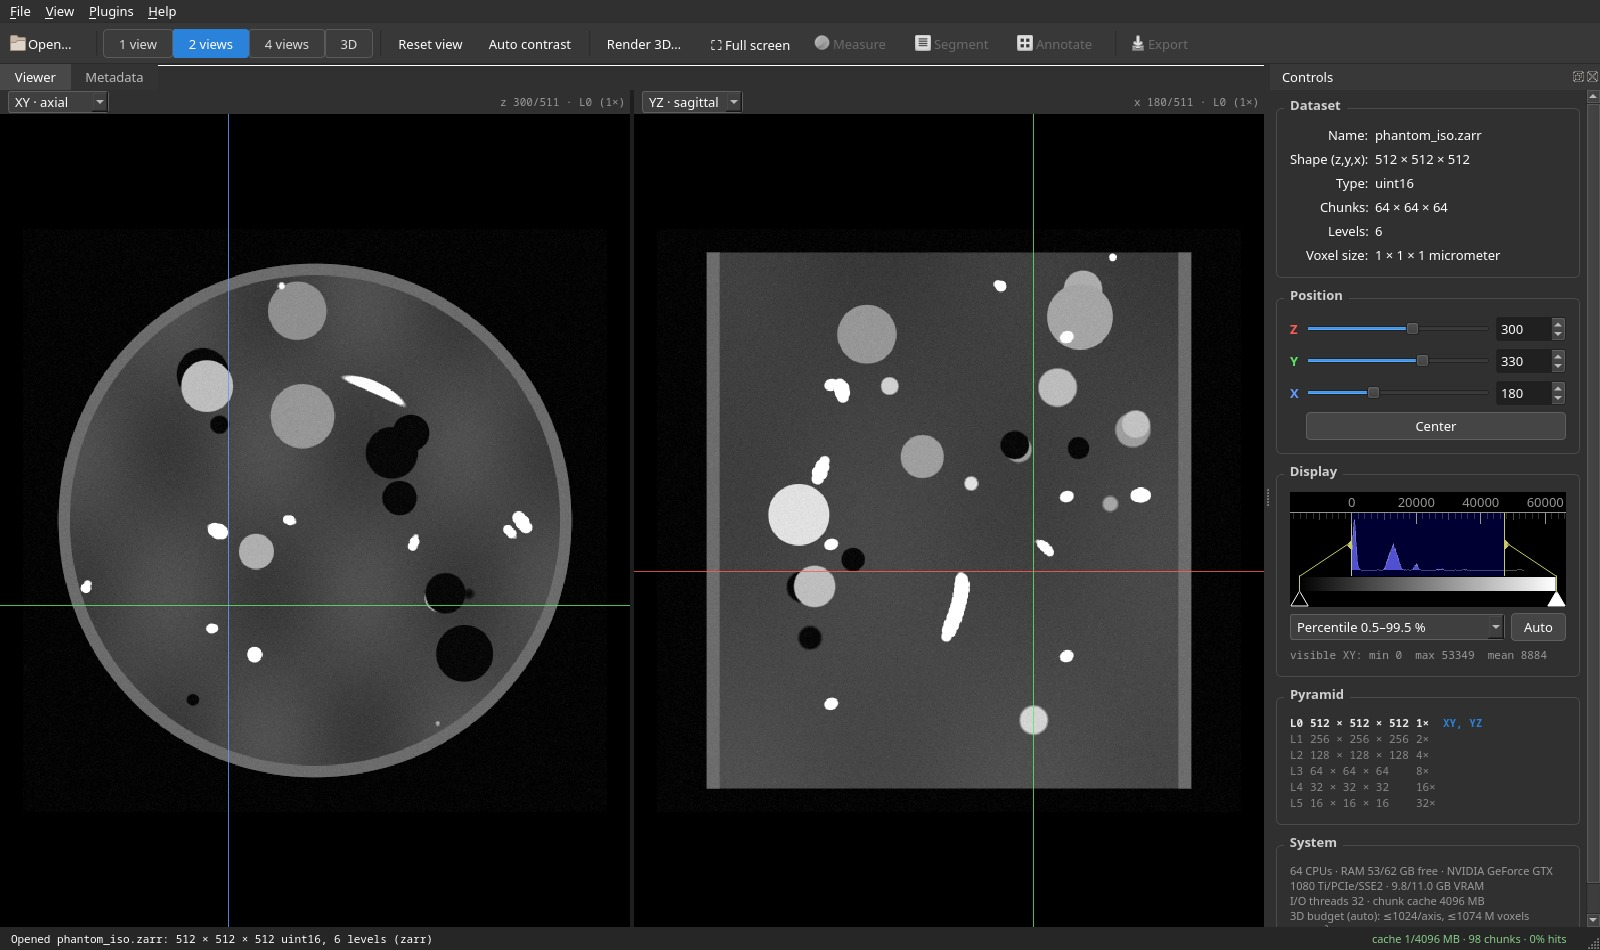
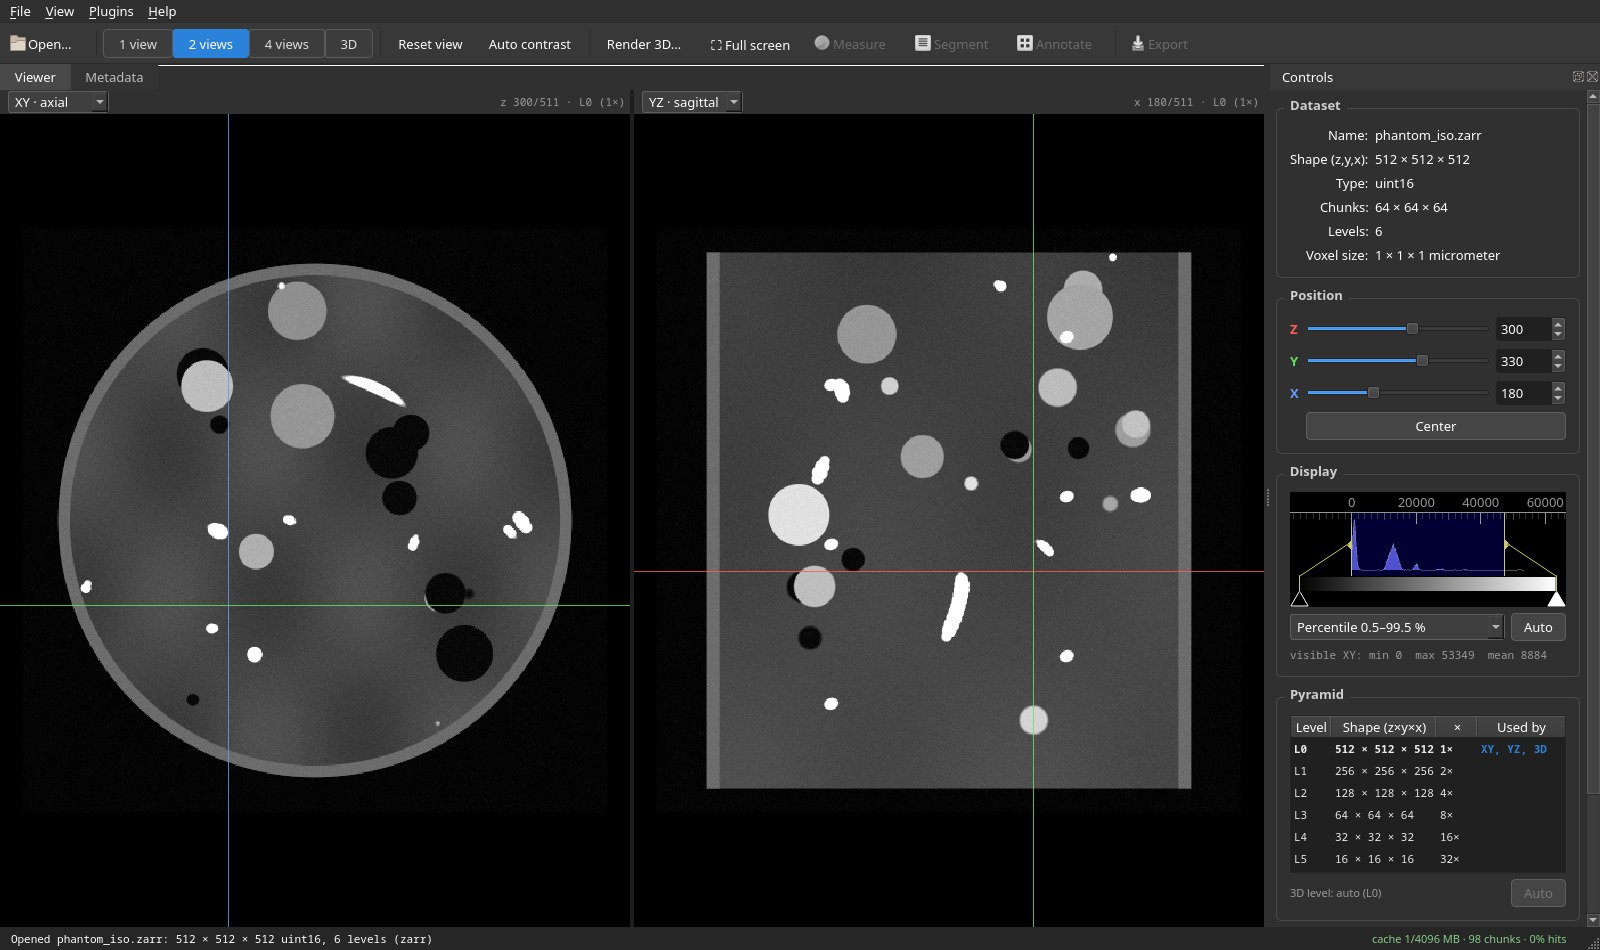
Docs: HDF5, level picker and shadows; citation; fresh screenshots
- Viewer, quick start, performance, test-data and API pages cover HDF5
  files (strided virtual levels, direct reads, read cap), the Pyramid
  level picker and the Shadows toggle.
- Citing page and CITATION.cff (cite the software repository).
- Fake-data suite writes phantom_scan.h5 (contiguous, DXchange layout).
- Screenshots regenerated, plus an HDF5 one.
- UI: checked toolbar buttons (Shadows, gear) are visibly highlighted;
  the Pyramid table no longer wraps level shapes.

Changed region(s): [[0.8125, 0.7326, 0.9688, 0.9768]]

diff --git a/scripts/make_fake_datasets.py b/scripts/make_fake_datasets.py
@@ -35,6 +35,12 @@ Datasets written to OUT_DIR (default /tmp/zview_fake):
                               multiscales metadata (fallback discovery).
   numbered_no_metadata.zarr   Zarr v2 group with arrays 0..3, no attributes.
   image_2d.zarr               2D uint8 4096², 5 levels.
+  phantom_scan.h5             HDF5 (DXchange layout), the phantom_iso volume
+                              as ONE contiguous uint16 dataset /exchange/data
+                              (voxel_size attribute), plus small data_white /
+                              data_dark. Tests the single-resolution HDF5 path:
+                              strided virtual levels, direct reads, the
+                              dataset chooser.
   big_single_level.zarr       Zarr v3 uint8, default 768×2048×2048 (3.2 GB raw),
                               ONE level (no pyramid). Stress test for the
                               strided 3D path, progress and cancel.
@@ -481,6 +487,27 @@ def write_n5(path, phantom, shape, voxel, levels):
 
 # ============================================================== main
 
+def write_h5(path, src_zarr):
+    """Copy level 0 of `src_zarr` into a DXchange-style HDF5 file (contiguous)."""
+    try:
+        import h5py
+    except ImportError:
+        print(f"  skip {path.name}: h5py not installed")
+        return
+    t = time.perf_counter()
+    src = zarr.open_array(str(src_zarr / "0"), mode="r")
+    with h5py.File(path, "w") as f:
+        d = f.create_dataset("exchange/data", shape=src.shape, dtype=src.dtype)   # contiguous
+        for z in range(0, src.shape[0], 64):
+            d[z:z + 64] = src[z:z + 64]
+        d.attrs["voxel_size"] = [1.0, 1.0, 1.0]
+        flat = np.full((4,) + src.shape[1:], 30000, src.dtype)
+        f.create_dataset("exchange/data_white", data=flat)
+        f.create_dataset("exchange/data_dark", data=np.full((2,) + src.shape[1:], 100, src.dtype))
+    print(f"  {path.name}: {src.shape} {src.dtype}, contiguous, + data_white/data_dark "
+          f"({time.perf_counter() - t:.1f}s)")
+
+
 def main():
     ap = argparse.ArgumentParser(description=__doc__, formatter_class=argparse.RawDescriptionHelpFormatter)
     ap.add_argument("out", nargs="?", default="/tmp/zview_fake")
@@ -558,7 +585,10 @@ def main():
                           voxel=(1.0, 1.0, 1.0), levels=5 if args.big_pyramid else 1,
                           group_blocks=(1, 1, 2))
 
-    # 8. N5 (z5py writes in-process; small).
+    # 8. HDF5: phantom_iso's full-resolution level as one contiguous dataset.
+    write_h5(out / "phantom_scan.h5", out / "phantom_iso.zarr")
+
+    # 9. N5 (z5py writes in-process; small).
     write_n5(out / "phantom.n5", Phantom((192, 192, 192), seed=7), (192, 192, 192), (1.0, 1.0, 1.0), 3)
 
     du = sum(f.stat().st_size for f in out.rglob("*") if f.is_file())

diff --git a/docs/gen_screenshots.py b/docs/gen_screenshots.py
@@ -87,12 +87,15 @@ def main():
         pump(2)
         w = v.view_3d_only
         if hasattr(w, "preset_combo"):                # VTK pane
+            w.shadows_btn.setChecked(True)            # the showcase shot uses shadows
             w._on_preset(w.preset_combo.findData("interior"))
         else:                                         # VisPy pane
             w.mode_combo.setCurrentIndex(w.mode_combo.findData("translucent"))
             w.cmap_combo.setCurrentIndex(w.cmap_combo.findText("viridis"))
         pump(5)
         shot(v, "view3d")
+        if hasattr(w, "shadows_btn"):
+            w.shadows_btn.setChecked(False)
 
         v.set_layout("quad")
         v.open_path(str(a.data / "phantom_aniso_5d.zarr"))
@@ -114,6 +117,20 @@ def main():
                     w3._set_class(val, visible=False)
             pump(5)
         shot(v, "view3d_labels")
+
+        # HDF5: one stored level, strided virtual levels; render L1 in 3D
+        # (a click in the Pyramid table) so the chosen-level marker shows.
+        h5 = a.data / "phantom_scan.h5"
+        if h5.exists():
+            v.set_layout("quad")
+            v.open_path(f"{h5}:/exchange/data")
+            wait_3d()
+            v.set_position(300, 330, 180)
+            v._on_pyramid_clicked(1, 0)
+            pump(0.5)
+            wait_3d()
+            pump(4)
+            shot(v, "quad_h5")
 
         v.set_layout("quad")
         v.open_path(str(a.data / "phantom_iso.zarr"))

diff --git a/zview/viewer/app.py b/zview/viewer/app.py
@@ -454,9 +454,12 @@ class MainWindow(QtWidgets.QMainWindow):
         t.setVerticalScrollBarPolicy(QtCore.Qt.ScrollBarAlwaysOff)
         t.setHorizontalScrollBarPolicy(QtCore.Qt.ScrollBarAlwaysOff)
         t.setStyleSheet("QTableWidget { font-family: monospace; font-size: 11px; }")
+        t.setWordWrap(False)              # never wrap a shape onto two lines
+        t.setTextElideMode(QtCore.Qt.ElideRight)
         hh = t.horizontalHeader()
-        for col, mode in enumerate((QtWidgets.QHeaderView.ResizeToContents, QtWidgets.QHeaderView.Stretch,
-                                    QtWidgets.QHeaderView.ResizeToContents, QtWidgets.QHeaderView.ResizeToContents)):
+        # Shapes keep their width; "Used by" takes what's left (elided if needed).
+        for col, mode in enumerate((QtWidgets.QHeaderView.ResizeToContents, QtWidgets.QHeaderView.ResizeToContents,
+                                    QtWidgets.QHeaderView.ResizeToContents, QtWidgets.QHeaderView.Stretch)):
             hh.setSectionResizeMode(col, mode)
         t.verticalHeader().setDefaultSectionSize(18)
         t.setToolTip("Click a level to render it in 3D. Greyed-out levels are too large for this machine.")

diff --git a/zview/viewer/volume_vtk.py b/zview/viewer/volume_vtk.py
@@ -192,7 +192,10 @@ class VTKVolumeView(QtWidgets.QWidget):
 
         bar = QtWidgets.QWidget()
         bar.setObjectName("vtkBar")
-        bar.setStyleSheet("#vtkBar { background:#262626; border-bottom:1px solid #3a3a3a; }")
+        # Checked tool buttons (Shadows, ⚙) must look on: the theme alone barely shows it.
+        bar.setStyleSheet("#vtkBar { background:#262626; border-bottom:1px solid #3a3a3a; }"
+                          "#vtkBar QToolButton:checked { background:#2a82da; color:white;"
+                          " border:1px solid #3b93eb; border-radius:3px; }")
         hb = QtWidgets.QHBoxLayout(bar)
         hb.setContentsMargins(4, 2, 4, 2)
         hb.setSpacing(4)

diff --git a/zview/viewer/volume_vispy.py b/zview/viewer/volume_vispy.py
@@ -107,7 +107,9 @@ class VispyVolumeView(QtWidgets.QWidget):
 
         bar = QtWidgets.QWidget()
         bar.setObjectName("vol3dBar")
-        bar.setStyleSheet("#vol3dBar { background:#262626; border-bottom:1px solid #3a3a3a; }")
+        bar.setStyleSheet("#vol3dBar { background:#262626; border-bottom:1px solid #3a3a3a; }"
+                          "#vol3dBar QToolButton:checked { background:#2a82da; color:white;"
+                          " border:1px solid #3b93eb; border-radius:3px; }")
         hb = QtWidgets.QHBoxLayout(bar)
         hb.setContentsMargins(4, 2, 4, 2)
         hb.setSpacing(4)

diff --git a/README.md b/README.md
@@ -1,7 +1,8 @@
 # zview
 
-A viewer and renderer for large multi-resolution 3D volumes: Zarr (v2 and
-v3) and N5, plus HDF5 and TIFF stacks for rendering.
+A viewer and renderer for large 3D volumes: multi-resolution Zarr (v2 and v3)
+and N5, single-resolution HDF5 files (viewed through a strided virtual
+pyramid), plus TIFF stacks for rendering.
 
 - **`zview`**: an interactive viewer (PyQt5 + pyqtgraph) with chunk-aligned,
   parallel, asynchronous loading, automatic pyramid-level selection, linked
@@ -33,6 +34,10 @@ zview-render quick /path/to/data.zarr --out /tmp/render --preset interior stills
   metadata from Zarr v2, Zarr v3, or N5; also falls back to numbered
   subgroups (`0/`, `1/`, …) when no metadata is present. 2D–5D arrays are
   accepted (`t`/`c` axes are pinned to index 0).
+- **HDF5 files without a pyramid** — coarser levels take one voxel every
+  2, 4, 8, … straight from the file; uncompressed contiguous datasets are read
+  with parallel direct reads (fast on network storage). `zview scan.h5` or
+  `zview scan.h5:/exchange/data`.
 - **Chunk-aligned, parallel, asynchronous loading** — only the chunks that
   cover the visible region are fetched, in parallel, on background threads,
   so panning and slicing never block the UI. Each pane shows the coarsest
@@ -70,7 +75,8 @@ pip install -e .
 ```bash
 zview /path/to/dataset.zarr
 zview /path/to/dataset.n5 --layout quad
-zview                      # then File › Open (Ctrl+O) or drop a folder on the window
+zview /path/to/scan.h5     # HDF5; or scan.h5:/exchange/data to name the dataset
+zview                      # then File › Open (Ctrl+O), Open HDF5 file (Ctrl+Shift+O), or drop it on the window
 ```
 
 The last layout, window geometry and recent files are remembered.
@@ -147,8 +153,8 @@ procedural "tomography sample" phantoms (container, grains, pores, vessels,
 helix, bar-pattern resolution target, orientation cubes, noise) covering every
 feature: isotropic pyramid, anisotropic 5D OME-NGFF 0.5, pixel-centre
 translations, Zarr v2 float32 with NaNs, N5, numbered levels without
-metadata, a 2D image, and a large single-level volume (no pyramid) for the 3D
-stress path. About 30 s and 2 GB with defaults; `--quick` is 3 s.
+metadata, a 2D image, an HDF5 file (single resolution), and a large
+single-level volume (no pyramid) for the 3D stress path. About 30 s and 2 GB with defaults; `--quick` is 3 s.
 
 ```bash
 python scripts/make_fake_datasets.py /tmp/zview_fake          # --quick, --no-big, --big-shape Z Y X
@@ -163,6 +169,7 @@ zview/
     pyramid.py     MultiResolutionImage, Volume3D adapter, ChunkCache, parallel/pooled reads
     labels.py      label maps: detection, class tables, label-aware pooling
     io.py          open Zarr v2/v3 (zarr-python) and N5 (z5py)
+    hdf5.py        HDF5: dataset discovery, voxel size, parallel direct reads
     sysinfo.py     CPU/RAM/GPU probing, cache/thread defaults, 3D budget + planner
     log.py         small coloured logger
   viewer/          the Qt viewer (zview)
@@ -182,6 +189,22 @@ scripts/
   pipeline/               unattended convert + render launchers
 tests/             pytest suite (no display needed)
 docs/              Sphinx documentation (Read the Docs)
+```
+
+## Citing
+
+If you use zview in your work, please cite the software repository. GitHub's
+**Cite this repository** button (from [`CITATION.cff`](CITATION.cff)) gives
+APA and BibTeX, or use:
+
+```bibtex
+@software{zview,
+  author  = {Mittone, Alberto},
+  title   = {zview: viewer and renderer for large 3D image volumes},
+  url     = {https://github.com/mittoalb/zview},
+  version = {0.1.0},
+  year    = {2026}
+}
 ```
 
 ## Current known limitations

diff --git a/docs/performance.md b/docs/performance.md
@@ -31,6 +31,21 @@ The planner then takes the **finest pyramid level that fits**. If none fits,
 it reads the coarsest level with a per-axis stride that grows on the longest
 axis first, which keeps voxels close to cubic.
 
+To override the automatic choice, click a level in the *Pyramid* panel. That
+level is rendered whole if the machine can hold it: the GPU texture limit,
+half the free VRAM and a quarter of the free RAM are checked, and levels
+over the limit are greyed out.
+
+For **HDF5 files** the automatic level also has a read limit. A strided level
+of a contiguous file reads whole rows, *file size / (z stride × y stride)*,
+so the level that fits the GPU could take minutes to read from network
+storage. The automatic level reads at most 2 GB (`ZVIEW_3D_MAX_READ_GB`). A
+click in the *Pyramid* panel still renders a finer level.
+
+Rendering speed is a separate matter. Rotating is fast with **Shadows** off
+(the default): tens of milliseconds per frame. With volumetric shadows on, a
+full-quality frame of dense data can take a second or more.
+
 Reads go block by block, in parallel, with a bounded amount of decoded data
 in flight (at most 1 GB or 10 % of free RAM). Peak memory is therefore the
 output plus a few blocks, whatever the size of the dataset. On a 537 GB test

diff --git a/docs/api.md b/docs/api.md
@@ -7,7 +7,7 @@ renderer classes can be imported too, but their interfaces may change.
 
 ```{eval-rst}
 .. automodule:: zview.core.pyramid
-   :members: MultiResolutionImage, Volume3D, ChunkCache
+   :members: MultiResolutionImage, Volume3D, ChunkCache, StridedLevel, strided_factors
 ```
 
 ```{eval-rst}
@@ -18,6 +18,28 @@ renderer classes can be imported too, but their interfaces may change.
 .. automodule:: zview.render.sources
    :members:
 ```
+
+### HDF5 (single resolution)
+
+```{eval-rst}
+.. automodule:: zview.core.hdf5
+   :members: open_image, split_spec, is_hdf5, find_dataset, candidates, voxel_size, direct_reader, ContiguousDataset
+```
+
+Example: open an HDF5 file as a pyramid and read a strided level.
+
+```python
+from zview.core import hdf5
+
+mi, f, dset = hdf5.open_image("/data/scan.h5")      # or "scan.h5:/exchange/data"
+print(dset, [lvl.shape for lvl in mi.levels])        # level k = one voxel every 2**k
+vol = mi.read_volume(mi.get_num_levels() - 1)        # numpy (z, y, x)
+mi.close()
+f.close()
+```
+
+Any array with numpy slicing works the same way through
+`MultiResolutionImage.from_array(array, voxel_size=(z, y, x))`.
 
 Example: read a render-sized volume of any store.
 

diff --git a/docs/citing.md b/docs/citing.md
@@ -1,0 +1,22 @@
+# Citing zview
+
+If zview helped your work, for example its images or renders appear in a
+paper, a poster or a talk, please cite the software repository:
+
+> Mittone, A. *zview: viewer and renderer for large 3D image volumes* (version
+> 0.1.0). <https://github.com/mittoalb/zview>
+
+```bibtex
+@software{zview,
+  author  = {Mittone, Alberto},
+  title   = {zview: viewer and renderer for large 3D image volumes},
+  url     = {https://github.com/mittoalb/zview},
+  version = {0.1.0},
+  year    = {2026}
+}
+```
+
+The repository also has a [`CITATION.cff`](https://github.com/mittoalb/zview/blob/main/CITATION.cff)
+file, so GitHub's **Cite this repository** button (in the *About* panel) gives
+the same reference in APA and BibTeX. Please give the version you used: it is
+printed in the Python package metadata (`pip show zview`).

diff --git a/docs/test-data.md b/docs/test-data.md
@@ -32,6 +32,7 @@ multi-GB volume uses little memory. Defaults: about 30 s and 2 GB on disk;
 | `phantom.n5` | N5 (z5py) | The N5 backend; numbered levels without metadata |
 | `numbered_no_metadata.zarr` | Zarr v2 | Level discovery without attributes |
 | `image_2d.zarr` | Zarr v3, 4096² uint8 | A 2D image as a one-slice volume |
+| `phantom_scan.h5` | HDF5 (DXchange layout), uint16 512³, contiguous | The [HDF5 path](viewer.md#hdf5-files): strided virtual levels, direct reads, voxel size from an attribute; the small `data_white` / `data_dark` datasets make the viewer ask which one to open |
 | `big_single_level.zarr` | Zarr v3, 768×2048×2048 uint8 (3.2 GB raw), **one level** | The large-data path: strided 3D reads, progress, cancel |
 
 There's also `scripts/make_test_zarr.py`. It writes a 6-level pyramid of

diff --git a/docs/viewer.md b/docs/viewer.md
@@ -77,6 +77,15 @@ Label maps, the 3D pane, the level picker and **Render 3D…** all work as with
 Zarr. A render job gets the file as `source` and the dataset as
 `hdf5_dataset`.
 
+```{image} _static/img/ui/quad_h5.jpg
+:class: shot
+:alt: A contiguous HDF5 file open in 4 views: the Dataset panel reads "2 (1 stored + strided)" and level L1 is chosen for 3D in the Pyramid panel
+```
+
+*`phantom_scan.h5` from the [test data](test-data.md): one stored level plus a
+strided one. L1 was clicked in the Pyramid panel (●), so the 3D pane renders
+it.*
+
 ## Layouts
 
 ::::{grid} 1 1 2 2

diff --git a/docs/quickstart.md b/docs/quickstart.md
@@ -28,6 +28,13 @@ $ zview /tmp/zview_demo/data/phantom_iso.zarr --layout quad
 - **Ctrl+wheel** or **PgUp/PgDn** steps through slices. **A** sets the
   contrast automatically. **Ctrl+1…4** switches layouts.
 
+HDF5 files open the same way, with no pyramid needed. zview builds coarser
+levels on the fly by taking one voxel every 2, 4, 8, … voxels:
+
+```console
+$ zview /tmp/zview_demo/data/phantom_scan.h5:/exchange/data
+```
+
 More in [](viewer.md).
 
 ## 3. Make a presentation render
